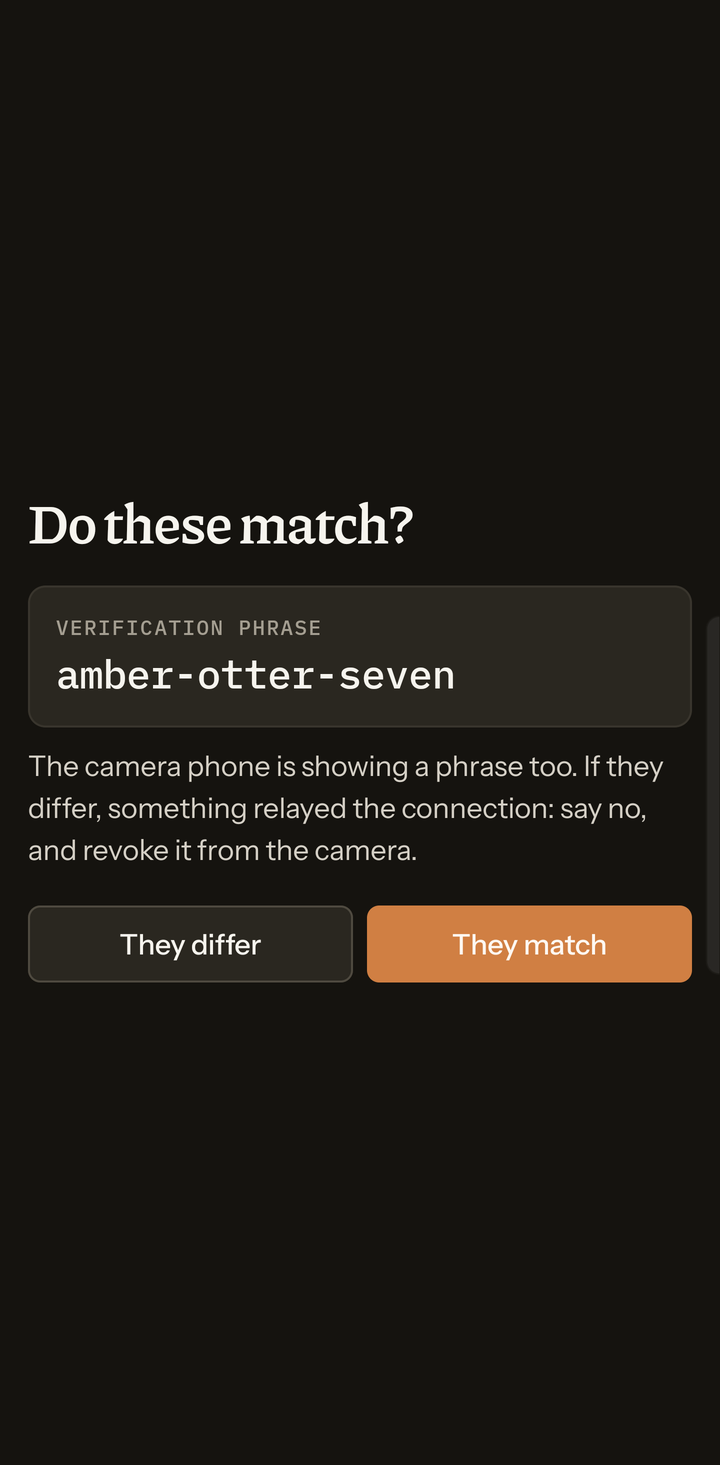
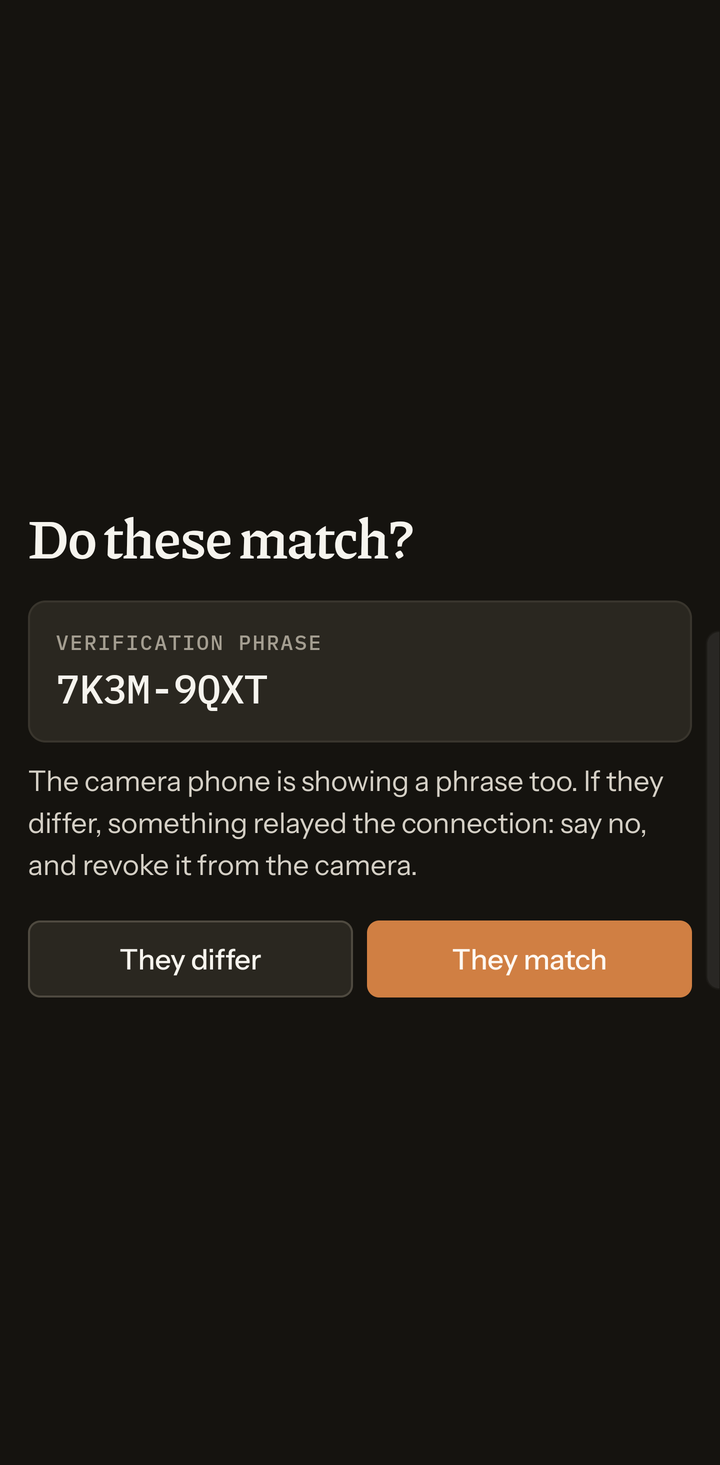
Show the real verification code in the gallery, and lead the README with what the app does
The debug gallery's sample pairing phrase was three words; the app has
rendered an eight-character code since D2, so the screenshot showed
something it never draws. The README opens with what the camera does and
how to set it up, ahead of the architecture and design notes.

Claude-Session: https://claude.ai/code/session_01VMdYVZgG31CrBfLH8bugq6

Changed region(s): [[0.0306, 0.3379, 0.9778, 0.7065], [0.4583, 0.4608, 0.6111, 0.4915]]

diff --git a/app/src/debug/kotlin/com/homecam/app/debug/GalleryActivity.kt b/app/src/debug/kotlin/com/homecam/app/debug/GalleryActivity.kt
@@ -213,11 +213,11 @@ private fun Screen(name: String) {
         "viewer_home" -> ViewerHomeScreen(cameras, {}, {}, {}, {}, {}, starred = "Y1TM-4JVY-9K8F")
         "viewer_home_empty" -> ViewerHomeScreen(emptyList(), {}, {}, {}, {}, {})
         "live" -> Shell(CameraTab.LIVE) {
-            LiveScreen(LiveState.Connected("amber-otter-seven", null, status, null, "Home network"), controls(), {}) { Scene() }
+            LiveScreen(LiveState.Connected("7K3M-9QXT", null, status, null, "Home network"), controls(), {}) { Scene() }
         }
         "live_two_lens" -> Shell(CameraTab.LIVE) {
             LiveScreen(
-                LiveState.Connected("amber-otter-seven", null, status, null, "Home network"),
+                LiveState.Connected("7K3M-9QXT", null, status, null, "Home network"),
                 controls().copy(
                     secondaryLens = "front",
                     secondLens = SecondLens("front", on = true, onChange = {}),
@@ -226,13 +226,13 @@ private fun Screen(name: String) {
             ) { Scene() }
         }
         "live_paused" -> Shell(CameraTab.LIVE) {
-            LiveScreen(LiveState.Connected("amber-otter-seven", null, pausedStatus, null, "Home network"), controls(from = pausedStatus), {}) { Scene() }
+            LiveScreen(LiveState.Connected("7K3M-9QXT", null, pausedStatus, null, "Home network"), controls(from = pausedStatus), {}) { Scene() }
         }
         "live_siren" -> Shell(CameraTab.LIVE) {
-            LiveScreen(LiveState.Connected("amber-otter-seven", null, status, null, "Remote"), controls(siren = true), {}) { Scene() }
+            LiveScreen(LiveState.Connected("7K3M-9QXT", null, status, null, "Remote"), controls(siren = true), {}) { Scene() }
         }
         "live_waiting" -> Shell(CameraTab.LIVE) {
-            LiveScreen(LiveState.Connected("amber-otter-seven", null, status, null), null, {})
+            LiveScreen(LiveState.Connected("7K3M-9QXT", null, status, null), null, {})
         }
         "live_finding" -> Shell(CameraTab.LIVE, armed = false) { LiveScreen(LiveState.Locating("Front door"), null, {}) }
         "live_privacy" -> Shell(CameraTab.LIVE) {
@@ -260,12 +260,12 @@ private fun Screen(name: String) {
         }
         "devices" -> RemoteRosterScreen(viewers, "KQSP-NHPF-2NNZ", {}, {})
         "network" -> NetworkActivityScreen(viewerEgress(true, "https://ntfy.sh"), {})
-        "pair_confirm" -> PairConfirmScreen(PairState.Confirm("amber-otter-seven"), {}, {}, {})
+        "pair_confirm" -> PairConfirmScreen(PairState.Confirm("7K3M-9QXT"), {}, {}, {})
         "pair_failed" -> PairConfirmScreen(PairState.Failed("That code has expired or was already used. Start pairing again on the camera."), {}, {}, {})
         "cam_home" -> CameraHome(null)
         "cam_home_live" -> CameraHome("Samsung SM-S938U")
         "cam_pair" -> PairingScreen(null, null, {}, {}, {})
-        "cam_pair_phrase" -> PairingScreen(null, "amber-otter-seven", {}, {}, {})
+        "cam_pair_phrase" -> PairingScreen(null, "7K3M-9QXT", {}, {}, {})
         "cam_roster" -> RosterScreen(
             viewers.map { ViewerEntity(it.fingerprint, ByteArray(0), it.label, it.pairedAtMs, it.lastSeenMs) },
             { 12 }, {}, {}, {},
@@ -284,7 +284,7 @@ private fun Settings(snapshot: SettingsSnapshot, remote: String) {
         soundClasses = com.homecam.core.sound.SoundClasses.pushSelection(snapshot.soundRecognition.classesList).toSet(), onSoundClass = { _, _ -> },
         alertsEnabled = true, onAlerts = {}, remoteAddress = remote, onRemoteAddress = {}, onDevices = {},
         protection = com.homecam.core.health.HealthConfig(),
-        verificationPhrase = "amber-otter-seven", fingerprint = "Y1TM-4JVY-9K8F",
+        verificationPhrase = "7K3M-9QXT", fingerprint = "Y1TM-4JVY-9K8F",
     )
 }
 

diff --git a/README.md b/README.md
@@ -2,9 +2,9 @@
 
 [![CI](https://github.com/ethanez713/homecam/actions/workflows/ci.yml/badge.svg)](https://github.com/ethanez713/homecam/actions/workflows/ci.yml)
 
-An old Android phone is the camera and the signaling server. Your daily phone is the viewer.
-
-Two phones, and no cloud account between them. Pairing pins each viewer's key, the camera shows how many devices have access, and every access is written to a tamper-evident log on the camera.
+**Turn an old Android phone into a home camera, with no cloud in between.** The old phone
+is the camera and the server; the phone in your pocket is the viewer. No account, no
+subscription, and no company holding your footage.
 
 ## Screenshots
 
@@ -32,6 +32,26 @@ Sample data from the debug build's screen gallery (`GalleryActivity`), captured 
     <td valign="top"><b>Camera side.</b> The old phone shows who is watching right now. It pauses continuous recording when it runs hot or the battery runs low.</td>
   </tr>
 </table>
+
+## What it does
+
+- **Live view** over WebRTC, with lens and zoom control, torch, two-way talk and a siren.
+- **Recording** continuously or on detection. Clips are tagged on the device (person,
+  pet, vehicle, sound) and kept for a number of days you choose.
+- **Alerts** as encrypted pushes: the push service sees ciphertext, never a thumbnail.
+- **Access you can check.** Pairing pins each viewer's key, the camera shows who is
+  watching right now, and every session lands in a tamper-evident log.
+- **Away from home** through Tailscale, with the same pinned keys as on the LAN.
+- **A privacy mask** applied before anything is streamed or recorded.
+
+## Using it
+
+1. Install on both phones. On the old one pick **The camera**. On the daily phone pick **The viewer**.
+2. Camera, **Pair a device**. The code lasts 120 seconds and works once.
+3. Viewer, **Add a camera**, and scan it.
+4. Both phones show a short verification phrase. The two have to match. A mismatch means something relayed the connection: revoke that device and pair again.
+
+The camera's home screen shows how many devices have access. Revoking one drops its key and tears down a live session from it.
 
 ## Architecture
 
@@ -143,15 +163,6 @@ Do not run that against a phone that is already paired. Gradle uninstalls the ap
 ```sh
 python tools/test_observe.py
 ```
-
-## Using it
-
-1. Install on both phones. On the old one pick **The camera**. On the daily phone pick **The viewer**.
-2. Camera, **Pair a device**. The code lasts 120 seconds and works once.
-3. Viewer, **Add a camera**, and scan it.
-4. Both phones show a short verification phrase. The two have to match. A mismatch means something relayed the connection: revoke that device and pair again.
-
-The camera's home screen shows how many devices have access. Revoking one drops its key and tears down a live session from it.
 
 ## License
 
